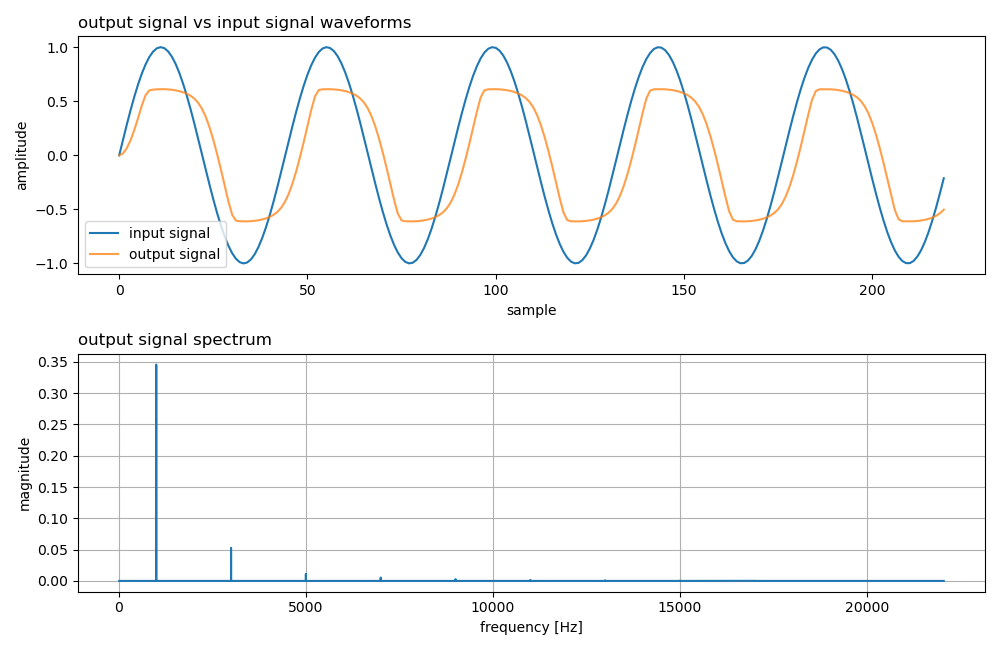
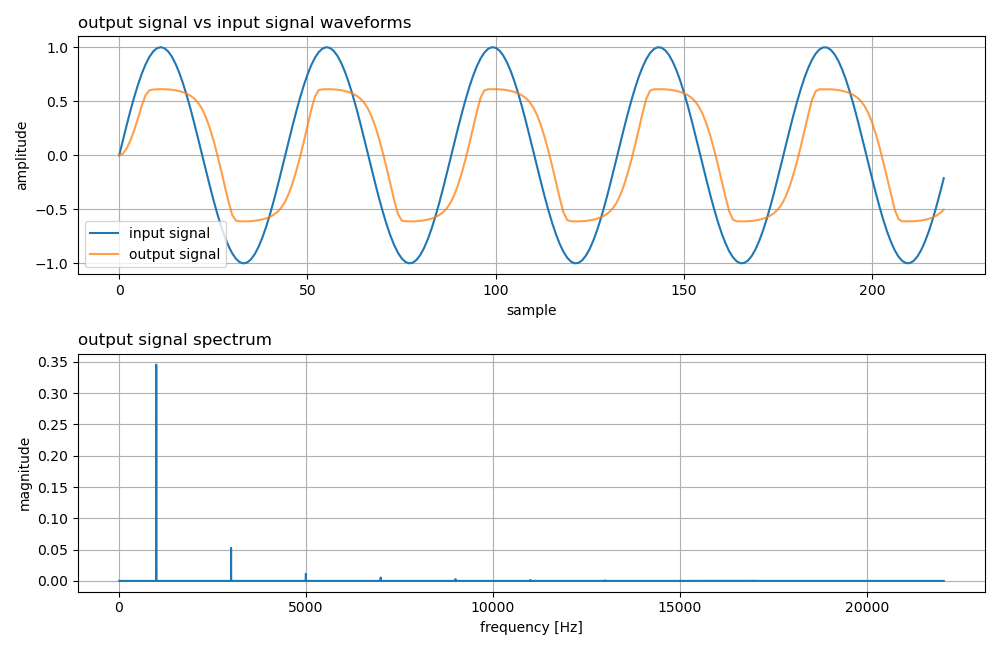
add grid to waveform fig in AC_transient_analysis

diff --git a/pywdf/core/circuit.py b/pywdf/core/circuit.py
@@ -259,7 +259,7 @@ class Circuit:
         ax[0].set_xlabel("sample")
         ax[0].set_ylabel("amplitude")
         ax[0].set_title(loc="left", label="output signal vs input signal waveforms")
-
+        ax[0].grid(True)
         ax[0].legend()
 
         N = len(n)
